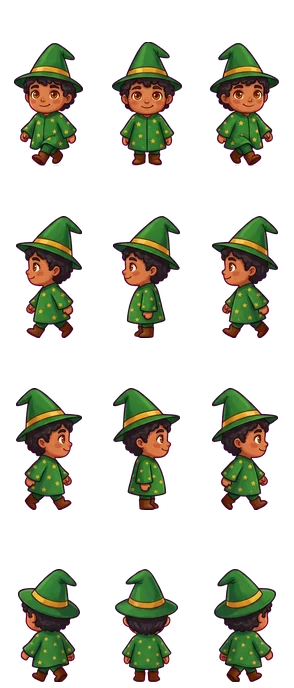
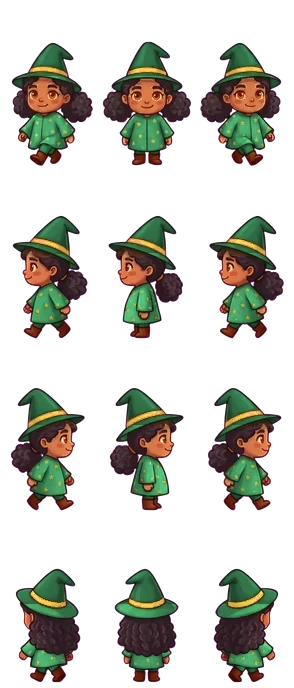
13.2: the wizard's looks, and the two friends, drawn
The wizard on a painted scene is drawn in the look the child chose, and
the friend in their own figure, Teku or Nuri by the wizard's gender.
tools/art/figures.py makes every look's walking sheet, and the friends',
by recolouring a base sheet's parts (the hat, the robe, the band and the
stars, the hair, the skin) in the look's colours from looks.ts, the
shading kept and the drawing unchanged, so that the figures stay one
drawing. The four bases are in art/figures/: the boy wizard and Teku as
Gemini drew them, the girl wizard and Nuri as Gemini's edits of those,
put back on the sheet's grid by their feet. Two Gemini images.

The scene says which sheet the wizard and the friend are drawn from, in
data-wizard-figure and data-friend-figure, for the tests.

diff --git a/app/src/engine/scene.ts b/app/src/engine/scene.ts
@@ -7,7 +7,8 @@
 // data-thought (why an action could not be done, while the wizard thinks it),
 // data-shaking (present while something shakes at a failed try), data-bubble
 // and data-speaker (the words said in a bubble and who says them), data-look
-// (the id of the look the wizard is drawn with, D36), data-dark (whether the
+// (the id of the look the wizard is drawn with, D36), data-wizard-figure and
+// data-friend-figure (the sheets they are drawn from, D77), data-dark (whether the
 // room is still dark, D52), data-stairs ("id:in" or "id:away" joined by ";",
 // each stair as a step taken now would find it, D53), data-zoom (the
 // camera's zoom, D69) and data-following (whether the camera follows the wizard).
@@ -266,9 +267,16 @@ class LevelScene extends Phaser.Scene {
   /** A character's figure: its drawn sheet when there is one, else the placeholder. */
   private figure(id: string, placeholder: string, tile: Tile, facing: Facing): Phaser.GameObjects.Sprite {
     const figures = this.art?.figures;
-    // The friend is the one of the wizard's other gender (D77).
-    const name = id === 'friend' ? friendOf({ gender: this.look.gender }).id : id;
-    if (figures && this.textures.exists(`fig-${name}`)) {
+    // The friend is the one of the wizard's other gender (D77); the wizard is drawn
+    // in the look the child chose.
+    const name =
+      id === 'friend' ? friendOf({ gender: this.look.gender }).id : id === 'wizard' ? `wizard-${this.look.id}` : id;
+    const drawn = figures && this.textures.exists(`fig-${name}`);
+    // Which sheet the wizard and the friend are drawn from, for the tests (D77, 13.2).
+    if (id === 'wizard' || id === 'friend') {
+      this.parentNode.dataset[id === 'wizard' ? 'wizardFigure' : 'friendFigure'] = drawn ? name : 'placeholder';
+    }
+    if (figures && drawn) {
       const sprite = this.add.sprite(...this.figureAt(tile), `fig-${name}`, SHEET_ROW[facing] * 3 + figures.standing);
       sprite.setOrigin(0.5, 1 - figures.foot / figures.frame[1]);
       sprite.setScale(TILE / figures.cell);

diff --git a/app/e2e/painted.spec.ts b/app/e2e/painted.spec.ts
@@ -57,3 +57,21 @@ test('the story at the gate is told on the field', async ({ page }) => {
   await page.waitForTimeout(400);
   await page.screenshot({ path: `${SHOTS}05-at-the-gate.png` });
 });
+
+test('the wizard is drawn in the look chosen, and the friend is of the other gender (D77)', async ({ browser }) => {
+  for (const [gender, look, friend] of [
+    ['girl', 'teal', 'teku'],
+    ['boy', 'amber', 'nuri'],
+  ] as const) {
+    const context = await browser.newContext({ locale: 'en-US' });
+    await seedWizard(context, { name: 'Ana', gender, look });
+    const page = await context.newPage();
+    await page.goto('/#level/the-corridor');
+    await page.locator('#start').click();
+    await expect(page.locator('#run')).toBeEnabled({ timeout: 90_000 });
+    await expect(page.locator('#scene')).toHaveAttribute('data-wizard-figure', `wizard-${look}`);
+    await expect(page.locator('#scene')).toHaveAttribute('data-friend-figure', friend);
+    await page.screenshot({ path: `${SHOTS}06-${gender}-${look}.png` });
+    await context.close();
+  }
+});

diff --git a/tools/art/figures.py b/tools/art/figures.py
@@ -1,0 +1,249 @@
+#!/usr/bin/env python3
+"""The characters' walking sheets in every look (13.2, D77): each look of the
+creator, and each friend, made from a base sheet by recolouring its parts, so
+that the figures stay the same drawing and only their colours change.
+
+    tools/art/figures.py [--check]
+
+A base sheet is four rows (down, left, right, up) of three frames, as
+content/art/figures/figures.json says. Each opaque pixel is told by its colour
+and its place in its frame: the hat and the robe are the base's cloth colour,
+told apart by the hat's band; the band and the robe's stars are its gold; the
+hair is the dark brown above the robe, the skin the light warm colour; the
+outlines, the eyes' darkest and the boots are left as they are. A part takes
+its new colour with its shading kept: each pixel's lightness against the
+part's middle lightness. The looks' colours are app/src/engine/looks.ts's.
+
+Writes content/art/figures/wizard-<look>.webp for every look and the friends'
+sheets named in FRIENDS, from the bases in art/figures/ (BASES), and their list in
+figures.json; --check writes art/raw/figures-check.png, every sheet side by
+side, to look at.
+"""
+
+import argparse
+import colorsys
+import json
+import re
+import sys
+from pathlib import Path
+
+import numpy as np
+from PIL import Image
+
+REPO = Path(__file__).resolve().parents[2]
+FIGURES = REPO / "content" / "art" / "figures"
+LOOKS_TS = REPO / "app" / "src" / "engine" / "looks.ts"
+RAW = REPO / "art" / "raw"
+#: The base sheets, kept in the repository: what every look is recoloured from.
+BASE_DIR = REPO / "art" / "figures"
+
+#: The base sheets, each with the hue range (in degrees) of the cloth it is drawn
+#: in: the wizard's blue for the boy and the girl (the girl's made from the boy's
+#: by a Gemini edit), and the friends' green, Teku's short curls and Nuri's long
+#: hair (Nuri's made from Teku's by an edit).
+BASES = {
+    "boy": ("wizard-base-boy.webp", (190, 260)),
+    "girl": ("wizard-base-girl.webp", (190, 260)),
+    "friend-boy": ("friend-base-boy.webp", (80, 170)),
+    "friend-girl": ("friend-base-girl.webp", (80, 170)),
+}
+#: The friends (D77): their base and their colours, as a look's.
+FRIENDS = {
+    "teku": (
+        "friend-boy",
+        {
+            "skin": "#a8714a",
+            "hair": "#1f1a17",
+            "robe": "#c86f2c",
+            "hat": "#8a4515",
+            "band": "#3fa7c9",
+        },
+    ),
+    "nuri": (
+        "friend-girl",
+        {
+            "skin": "#c98e5f",
+            "hair": "#4a2c1a",
+            "robe": "#3f8f5a",
+            "hat": "#2f6b44",
+            "band": "#e8c547",
+        },
+    ),
+}
+PARTS = ("skin", "hair", "robe", "hat", "band")
+
+
+def looks() -> dict[str, dict[str, str]]:
+    """Each look's gender and colours, read from looks.ts."""
+    text = LOOKS_TS.read_text(encoding="utf-8")
+    skins = dict(re.findall(r"(\w+): '(#[0-9a-f]{6})'", text.split("export const LOOKS")[0]))
+    found = {}
+    for block in re.findall(r"\{\s*id: '(\w+)'(.*?)\}", text.split("export const LOOKS")[1], re.S):
+        look_id, body = block
+        fields = dict(re.findall(r"(\w+): '([^']+)'", body))
+        skin = re.search(r"skin: SKIN\.(\w+)", body)
+        if skin:
+            fields["skin"] = skins[skin.group(1)]
+        found[look_id] = fields
+    return found
+
+
+def _hsv(rgb: np.ndarray) -> np.ndarray:
+    flat = rgb.reshape(-1, 3) / 255.0
+    return np.array([colorsys.rgb_to_hsv(*p) for p in flat]).reshape(rgb.shape)
+
+
+def parts_of(frame: np.ndarray, cloth_hues: tuple[int, int] = (190, 260)) -> dict[str, np.ndarray]:
+    """Each part's mask in one frame (height × width × RGBA), its cloth in a hue range."""
+    alpha = frame[..., 3] > 0
+    hsv = _hsv(frame[..., :3].astype(float))
+    hue, sat, val = hsv[..., 0] * 360, hsv[..., 1], hsv[..., 2]
+    low, high = cloth_hues
+    cloth = alpha & (hue >= low) & (hue <= high) & (sat > 0.3) & (val > 0.15)
+    gold = alpha & (hue >= 32) & (hue <= 62) & (sat > 0.4) & (val > 0.5)
+    warm = alpha & ((hue <= 45) | (hue >= 340)) & (sat > 0.15)
+    rows = np.arange(frame.shape[0])[:, None]
+    # The hat's band: the lowest of the rows that hold many gold pixels in the
+    # frame's top half; the hat is the cloth above it, the robe the cloth below.
+    half = frame.shape[0] // 2
+    gold_rows = np.where(gold[:half].sum(axis=1) >= 6)[0]
+    band_bottom = int(gold_rows.max()) if gold_rows.size else half // 2
+    band_top = int(gold_rows.min()) if gold_rows.size else band_bottom
+    hat = cloth & (rows <= band_bottom + 2)
+    robe = cloth & ~hat
+    robe_rows = np.where(robe.sum(axis=1) >= 4)[0]
+    robe_top = int(robe_rows.min()) if robe_rows.size else frame.shape[0]
+    head = (rows > band_top - 2) & (rows < robe_top + 3)
+    skin = warm & head & (val > 0.55) & (sat < 0.7)
+    hair = warm & head & (val <= 0.55) & (val > 0.12) & ~skin
+    # The hands are skin below the robe's top too.
+    skin |= warm & (rows >= robe_top) & (val > 0.6) & (sat < 0.6) & (sat > 0.2)
+    band = gold & (rows <= band_bottom + 2)
+    stars = gold & ~band
+    return {"hat": hat, "robe": robe, "band": band | stars, "skin": skin, "hair": hair}
+
+
+def _target(colour: str) -> tuple[float, float, float]:
+    r, g, b = (int(colour[i : i + 2], 16) / 255 for i in (1, 3, 5))
+    return colorsys.rgb_to_hsv(r, g, b)
+
+
+def recolour(
+    frame: np.ndarray, colours: dict[str, str], cloth_hues: tuple[int, int] = (190, 260)
+) -> np.ndarray:
+    """The frame with each part in its new colour, its shading kept."""
+    out = frame.copy()
+    hsv = _hsv(frame[..., :3].astype(float))
+    for part, mask in parts_of(frame, cloth_hues).items():
+        if part not in colours or not mask.any():
+            continue
+        h, s, v = _target(colours[part])
+        middle = float(np.median(hsv[..., 2][mask])) or 1.0
+        values = np.clip(hsv[..., 2][mask] / middle * v, 0, 1)
+        rgb = np.array([colorsys.hsv_to_rgb(h, s, value) for value in values]) * 255
+        out[..., :3][mask] = rgb.round().astype(np.uint8)
+    return out
+
+
+def recolour_sheet(
+    sheet: Image.Image,
+    frame: tuple[int, int],
+    colours: dict[str, str],
+    cloth_hues: tuple[int, int] = (190, 260),
+) -> Image.Image:
+    """Every frame of a sheet recoloured."""
+    pixels = np.array(sheet.convert("RGBA"))
+    width, height = frame
+    for top in range(0, pixels.shape[0], height):
+        for left in range(0, pixels.shape[1], width):
+            cell = pixels[top : top + height, left : left + width]
+            pixels[top : top + height, left : left + width] = recolour(cell, colours, cloth_hues)
+    return Image.fromarray(pixels)
+
+
+def from_edit(edited: Image.Image, base: Image.Image, frame: tuple[int, int]) -> Image.Image:
+    """A Gemini edit of a base sheet, put back on the base's grid: the edit was asked
+    of the base enlarged four times on a magenta canvas of 9:16, centred; it is
+    sized back, its magenta made transparent, and each figure moved so that its feet
+    stand where the base frame's do (the bottom of the drawing, at its middle)."""
+    scale = 4
+    width, height = base.width * scale, base.height * scale
+    canvas = round(height * 9 / 16)
+    left = (canvas - width) // 2
+    big = edited.convert("RGB").resize((canvas, height), Image.LANCZOS)
+    rgb = np.array(big.crop((left, 0, left + width, height))).astype(int)
+    distance = np.abs(rgb - np.array([255, 0, 255])).sum(axis=2)
+    alpha = np.clip((distance - 90) * 3, 0, 255).astype(np.uint8)
+    # The magenta's spill on the edges goes: green lifted to the red-blue mean.
+    spill = (rgb[..., 0] > rgb[..., 1] + 40) & (rgb[..., 2] > rgb[..., 1] + 40)
+    rgb[spill, 1] = ((rgb[spill, 0] + rgb[spill, 2]) // 2 * 0.6).astype(int)
+    keyed = Image.fromarray(np.dstack([rgb.astype(np.uint8), alpha]), "RGBA")
+    small = np.array(keyed.resize(base.size, Image.LANCZOS))
+    small[small[..., 3] < 24] = 0
+    old = np.array(base.convert("RGBA"))
+    out = np.zeros_like(old)
+    fw, fh = frame
+    for top in range(0, old.shape[0], fh):
+        for x0 in range(0, old.shape[1], fw):
+            new_cell = small[top : top + fh, x0 : x0 + fw]
+            base_cell = old[top : top + fh, x0 : x0 + fw]
+
+            def feet(cell: np.ndarray) -> tuple[int, int]:
+                ys, xs = np.where(cell[..., 3] > 128)
+                return (int(ys.max()), int(round(xs.mean()))) if ys.size else (fh - 1, fw // 2)
+
+            (by, bx), (ny, nx) = feet(base_cell), feet(new_cell)
+            dy, dx = by - ny, bx - nx
+            moved = np.zeros_like(new_cell)
+            src = new_cell[max(0, -dy) : fh - max(0, dy), max(0, -dx) : fw - max(0, dx)]
+            moved[
+                max(0, dy) : max(0, dy) + src.shape[0], max(0, dx) : max(0, dx) + src.shape[1]
+            ] = src
+            out[top : top + fh, x0 : x0 + fw] = moved
+    return Image.fromarray(out, "RGBA")
+
+
+def make(check: bool = False) -> list[Path]:
+    about = json.loads((FIGURES / "figures.json").read_text(encoding="utf-8"))
+    frame = tuple(about["frame"])
+    bases = {key: (Image.open(BASE_DIR / name), hues) for key, (name, hues) in BASES.items()}
+    written = []
+    for look_id, look in looks().items():
+        base, hues = bases[look["gender"]]
+        sheet = recolour_sheet(base, frame, {p: look[p] for p in PARTS}, hues)
+        target = FIGURES / f"wizard-{look_id}.webp"
+        sheet.save(target, quality=90, method=6)
+        written.append(target)
+    for name, (key, colours) in FRIENDS.items():
+        target = FIGURES / f"{name}.webp"
+        base, hues = bases[key]
+        recolour_sheet(base, frame, colours, hues).save(target, quality=90, method=6)
+        written.append(target)
+    names = sorted({p.stem for p in written} | {"wenna", "eldra", "dask"})
+    about["figures"] = names
+    (FIGURES / "figures.json").write_text(json.dumps(about, indent=2) + "\n", encoding="utf-8")
+    if check:
+        sheets = [Image.open(p).convert("RGBA") for p in written]
+        strip = Image.new(
+            "RGBA", (sum(s.width for s in sheets), sheets[0].height), (235, 235, 225, 255)
+        )
+        x = 0
+        for sheet in sheets:
+            strip.alpha_composite(sheet, (x, 0))
+            x += sheet.width
+        RAW.mkdir(parents=True, exist_ok=True)
+        strip.save(RAW / "figures-check.png")
+    return written
+
+
+def main() -> int:
+    parser = argparse.ArgumentParser(description="The characters' sheets in every look.")
+    parser.add_argument("--check", action="store_true", help="also write a sheet to look at")
+    args = parser.parse_args()
+    for path in make(args.check):
+        print(path.relative_to(REPO))
+    return 0
+
+
+if __name__ == "__main__":
+    sys.exit(main())

diff --git a/tests/tools/test_art.py b/tests/tools/test_art.py
@@ -588,3 +588,39 @@ def test_an_interior_is_cut_by_rows_and_what_is_picked_up_leaves_no_ghost(tmp_pa
     ground = np.array(Image.open(out / art["ground"]).convert("RGB")).astype(int)
     assert abs(ground[45, CELL + 45] - 120).max() < 12
     assert (out / art["source"]).read_text() == "A test.\n"
+
+
+def test_a_look_recolours_its_parts_and_keeps_the_rest():
+    import figures
+
+    frame = np.zeros((40, 20, 4), dtype=np.uint8)
+    frame[2:8, 6:14] = (40, 70, 190, 255)  # the hat, blue
+    frame[8:10, 4:16] = (230, 180, 40, 255)  # its band, gold
+    frame[10:16, 7:13] = (233, 185, 143, 255)  # the face, skin
+    frame[16:34, 5:15] = (40, 70, 190, 255)  # the robe, blue
+    frame[34:38, 7:13] = (20, 20, 20, 255)  # the boots, dark
+    out = figures.recolour(
+        frame,
+        {
+            "hat": "#a85d14",
+            "robe": "#d9822b",
+            "band": "#ffe08a",
+            "skin": "#8d5524",
+            "hair": "#000000",
+        },
+    )
+    assert tuple(out[4, 10, :3]) != tuple(frame[4, 10, :3])
+    assert out[20, 10, 0] > out[20, 10, 2]  # the robe is orange now, red over blue
+    assert tuple(out[36, 10]) == tuple(frame[36, 10])  # the boots are left as they are
+    assert (out[..., 3] == frame[..., 3]).all()  # the outline and the shape do not move
+
+
+def test_every_look_has_its_sheet_and_the_friends_theirs():
+    import figures
+
+    about = json.loads((figures.FIGURES / "figures.json").read_text())
+    for look in figures.looks():
+        assert f"wizard-{look}" in about["figures"]
+        assert (figures.FIGURES / f"wizard-{look}.webp").is_file()
+    for friend in figures.FRIENDS:
+        assert friend in about["figures"]

diff --git a/content/art/figures/SOURCE.md b/content/art/figures/SOURCE.md
@@ -6,6 +6,12 @@ later, like the rest of it.
 - Drawn by Gemini 3 Pro Image (`gemini-3-pro-image`) as walking sheets, from
   `tools/art/prompts/demo-wizard.md`, `demo-nuri.md`, `demo-wenna.md`,
   `demo-eldra.md` and `demo-dask.md`, each with the style-B wizard as its
-  reference (`chibi-b-gemini.md`).
-- Cut by `tools/art/sprites.py` and put together by
-  `tools/art/export_scene.py`.
+  reference (`chibi-b-gemini.md`); cut by `tools/art/sprites.py` and put
+  together by `tools/art/export_scene.py`.
+- The wizard's girl and Nuri's are Gemini's edits of those sheets
+  (`figure-wizard-girl.md`, `figure-nuri-girl.md`), put back on their grid
+  by `tools/art/figures.py`. The four base sheets are in `art/figures/`.
+- `wizard-<look>.webp` for each look of the creator, and Teku's and Nuri's,
+  are those bases recoloured by `tools/art/figures.py`: the robe, the hat,
+  its band, the hair and the skin in the look's colours
+  (`app/src/engine/looks.ts`), their shading kept.

diff --git a/tools/art/prompts/figure-wizard-girl.md b/tools/art/prompts/figure-wizard-girl.md
@@ -1,0 +1,9 @@
+---
+candidate: figures
+service: gemini
+model: gemini-3-pro-image
+image: art/raw/figures/wizard-input.png
+aspect_ratio: 9:16
+image_size: 2K
+---
+Edit this picture: it is a walking sheet of twelve small figures of one child wizard on a flat magenta background, in four rows of three. Make the child a girl in every one of the twelve figures: give her long hair, below the shoulders, tied in a soft ponytail or falling loose, the same brown as now, seen from the front, the sides and the back as each figure faces; a girl's face, with the same big eyes and smile. Keep everything else exactly as it is: the blue robe with its gold stars, the blue pointed hat with its gold band, the boots, the poses, the walking steps, the size of every figure and its place in the sheet, pixel for pixel, and the flat magenta background. The same painted cartoon style, bold dark outlines, soft shading. No text, no new objects, no shadows.

diff --git a/tools/art/prompts/figure-nuri-girl.md b/tools/art/prompts/figure-nuri-girl.md
@@ -1,0 +1,9 @@
+---
+candidate: figures
+service: gemini
+model: gemini-3-pro-image
+image: art/raw/figures/nuri-input.png
+aspect_ratio: 9:16
+image_size: 2K
+---
+Edit this picture: it is a walking sheet of twelve small figures of one child on a flat magenta background, in four rows of three. Make the child a girl in every one of the twelve figures: give her long dark curly hair, gathered in two puffs or falling past her shoulders, seen from the front, the sides and the back as each figure faces; a girl's face, with the same big eyes and smile. Keep everything else exactly as it is: the green robe with its stars, the green pointed hat with its band, the boots, the warm brown skin, the poses, the walking steps, the size of every figure and its place in the sheet, pixel for pixel, and the flat magenta background. The same painted cartoon style, bold dark outlines, soft shading. No text, no new objects, no shadows.
